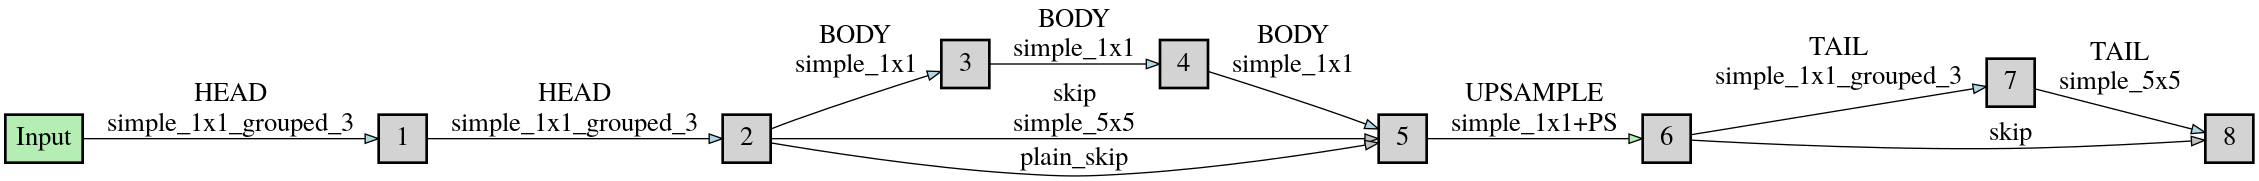
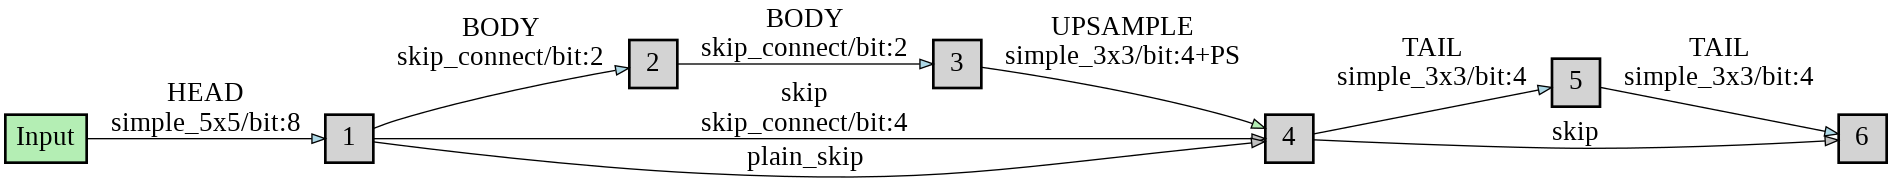
parse_sr

diff --git a/genotypes.py b/genotypes.py
@@ -24,15 +24,15 @@ PRIMITIVES = [
 
 body = [
     #    "skip_connect",
-    "conv_5x1_1x5",
-    "conv_3x1_1x3",
+    # "conv_5x1_1x5",
+    # "conv_3x1_1x3",
     "simple_3x3",
-    "simple_1x1",
+    # "simple_1x1",
     "simple_5x5",
     # "simple_1x1_grouped_full",
     # "simple_3x3_grouped_full",
     # "simple_5x5_grouped_full",
-    "simple_1x1_grouped_3",
+    # "simple_1x1_grouped_3",
     "simple_3x3_grouped_3",
     "simple_5x5_grouped_3",
     "DWS_3x3",
@@ -42,22 +42,22 @@ body = [
     "decenc_3x3_4",
     "decenc_3x3_2",
     "decenc_5x5_2",
-    "decenc_5x5_8",
-    "decenc_3x3_8",
+    # "decenc_5x5_8",
+    # "decenc_3x3_8",
     # "decenc_3x3_4_g3",
     # "decenc_3x3_2_g3",
     # "decenc_5x5_2_g3",
 ]
 head = [
     # "skip_connect",
-    "conv_5x1_1x5",
-    "conv_3x1_1x3",
+    # "conv_5x1_1x5",
+    # "conv_3x1_1x3",
     "simple_3x3",
-    "simple_1x1",
+    # "simple_1x1",
     "simple_5x5",
     "growth2_5x5",
     "growth2_3x3",
-    "simple_1x1_grouped_3",
+    # "simple_1x1_grouped_3",
     "simple_3x3_grouped_3",
     "simple_5x5_grouped_3",
 ]
@@ -105,13 +105,20 @@ def to_dag_sr(C_fixed, gene, gene_type, c_in=3, c_out=3, scale=4):
     return nn.Sequential(*dag)
 
 
-def parse_sr(alpha, name):
-
+def parse_sr(alpha, name, bits=1):
     gene = []
+    for edges in alpha:
+        best_bit = 0
+        best_idx = 0
+        best_val = 0
+        for bit, edge in enumerate(edges.chunk(bits)):
+            max_val = edge.max()
+            func_idx = edge.argmax()  # ignore 'none'
+            if max_val > best_val:
+                best_val = max_val
+                best_idx = func_idx
+                best_bit = bit
 
-    for i, edges in enumerate(alpha):
-        func_idx = edges.argmax()  # ignore 'none'
-        prim = PRIMITIVES_SR[name][func_idx]
-        gene.append(prim)
-
+        prim = PRIMITIVES_SR[name][best_idx]
+        gene.append((prim, best_bit))
     return gene

diff --git a/sr_models/quant_conv_lsq.py b/sr_models/quant_conv_lsq.py
@@ -105,7 +105,8 @@ class LsqQuan(nn.Module):
             s_grad_scale = 1.0 / ((self.thd_pos * x.numel()) ** 0.5)
         else:
             s_grad_scale = 1.0 / ((self.thd_pos * x.numel()) ** 0.5)
-        s_scale = grad_scale(self.s, s_grad_scale)
+        device = x.device
+        s_scale = grad_scale(self.s, s_grad_scale).to(device)
         x = x / (s_scale)
         x = torch.clamp(x, self.thd_neg, self.thd_pos)
         x = round_pass(x)
@@ -252,17 +253,17 @@ class SharedQAConv2d(nn.Module):
         self.alphas = [1] * len(self.bits)
 
     def forward(self, input_x):
-        weights = []
-        acts = []
+        weights = torch.zeros_like(self.conv.weight)
+        acts = torch.zeros_like(input_x)
         for alpha, act, q_fn in zip(self.alphas, self.acts, self.q_fn):
-            weights.append(alpha * q_fn(self.conv.weight))
-            acts.append(alpha * act(input_x))
+            weights += alpha * q_fn(self.conv.weight)
+            acts += alpha * act(input_x)
 
-        return self.conv(sum(acts), sum(weights))
+        return self.conv(acts, weights)
 
     def _fetch_info(self):
         bit_ops, mem = 0, 0
-        b, m = self.conv.fetch_info()
+        b, m = self.conv._fetch_info()
         for alpha, bit in zip(self.bits, self.alphas):
             bit_ops += alpha * b * bit
             mem += alpha * m * bit

diff --git a/visualize.py b/visualize.py
@@ -41,14 +41,14 @@ def plot_sr(genotype, file_path, caption=None):
             g.edge(
                 str(node_n),
                 str(node_n + 1),
-                label=f"{name.upper()}\n{f}+PS",
+                label=f"{name.upper()}\n{f[0]}/bit:{f[1]}+PS",
                 fillcolor="darkseagreen2",
             )
             node_n += 1
             pixel_up_node = node_n
             continue
 
-        for op in layers:
+        for op, bit in layers:
             if node_n == 0:
                 current_n = "Input"
             else:
@@ -56,7 +56,7 @@ def plot_sr(genotype, file_path, caption=None):
             g.edge(
                 current_n,
                 str(node_n + 1),
-                label=f"{name.upper()}\n{op}",
+                label=f"{name.upper()}\n{op}/bit:{bit}",
                 fillcolor="lightblue",
             )
             node_n += 1
@@ -66,7 +66,7 @@ def plot_sr(genotype, file_path, caption=None):
     g.edge(
         str(body_start),
         str(body_end),
-        label=f"skip\n{body_skip}",
+        label=f"skip\n{body_skip[0]}/bit:{body_skip[1]}",
         fillcolor="gray",
     )
     g.edge(

diff --git a/search_sr.py b/search_sr.py
@@ -341,7 +341,7 @@ def train(
 
         if step % cfg.env.print_freq == 0 or step == len(train_loader) - 1:
             logger.info(
-                "Train: [{:2d}/{}] Step {:03d}/{:03d} Loss: {losses.avg:.3f} Flops: {flops:.2e}".format(
+                "Train: [{:2d}/{}] Step {:03d}/{:03d} Loss: {losses.avg:.3f} BitOPS: {flops:.4e}".format(
                     epoch + 1,
                     cfg.search.epochs,
                     step,
@@ -386,7 +386,6 @@ def validate(
     best=False,
     temperature=1,
 ):
-    psnr_meter = utils.AverageMeter()
     loss_meter = utils.AverageMeter()
 
     model.eval()
@@ -439,7 +438,7 @@ def get_data_loaders(cfg):
     indices = list(range(len(train_data)))
     random.shuffle(indices)
     if cfg.dataset.debug_mode:
-        cfg.search.train_portion = 0.05
+        cfg.search.train_portion = 0.01
 
     split = int(np.floor(cfg.search.train_portion * n_train))
     leftover = int(np.floor((1 - cfg.search.train_portion) * n_train))

diff --git a/sr_models/quant_ops.py b/sr_models/quant_ops.py
@@ -650,7 +650,7 @@ class MixedOp(nn.Module):
             )
             self._ops.append(func)
 
-    def forward(self, x, weights):
+    def forward(self, x, alpha_vec):
         """
         Args:
             x: input
@@ -658,15 +658,15 @@ class MixedOp(nn.Module):
         """
 
         outs = []
-        for alphas, op in zip(weights.chunk(len(self.bits)), self._ops):
+        for alphas, op in zip(alpha_vec.chunk(len(self.bits)), self._ops):
             op.set_alphas(alphas)
             outs.append(op(x))
         return sum(outs)
 
-    def fetch_weighted_info(self, weights):
+    def fetch_weighted_info(self, alpha_vec):
         flops = 0
         memory = 0
-        for alphas, op in zip(weights.chunk(len(self.bits)), self._ops):
+        for alphas, op in zip(alpha_vec.chunk(len(self.bits)), self._ops):
             op.set_alphas(alphas)
             f, m = op.fetch_info()
             flops += f

diff --git a/sr_models/quant_conv.py b/sr_models/quant_conv.py
@@ -239,9 +239,6 @@ class SharedQAConv2d(nn.Module):
             mem += alpha * m * bit
         return bit_ops, mem
 
-    def set_alphas(self, alphas):
-        self.alphas = alphas
-
 
 class BaseConv(nn.Module):
     def __init__(self, *args, **kwargs):
@@ -251,11 +248,6 @@ class BaseConv(nn.Module):
             self.conv_func = SharedQAConv2d
         else:
             self.conv_func = QAConv2d
-
-    def set_alphas(self, alphas):
-        for m in self.modules():
-            if isinstance(m, self.conv_func):
-                m.set_alphas(alphas)
 
     def fetch_info(self):
         sum_flops = 0

diff --git a/sr_models/search_cnn.py b/sr_models/search_cnn.py
@@ -34,7 +34,7 @@ class SearchCNNController(nn.Module):
             device_ids = list(range(torch.cuda.device_count()))
         self.device_ids = device_ids
         self.temp = 1
-
+        self.bits = bits
         # initialize architect parameters: alphass
         self.n_ops = len(gt.PRIMITIVES_SR)
 
